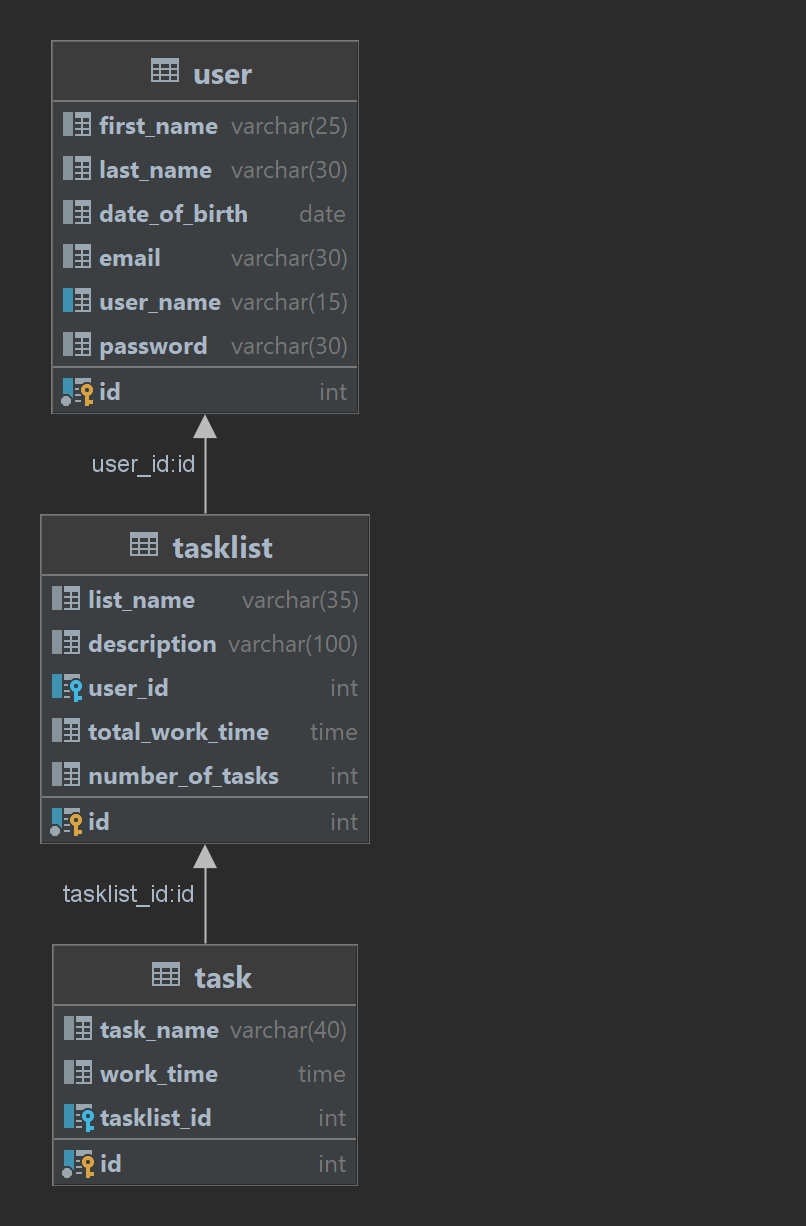
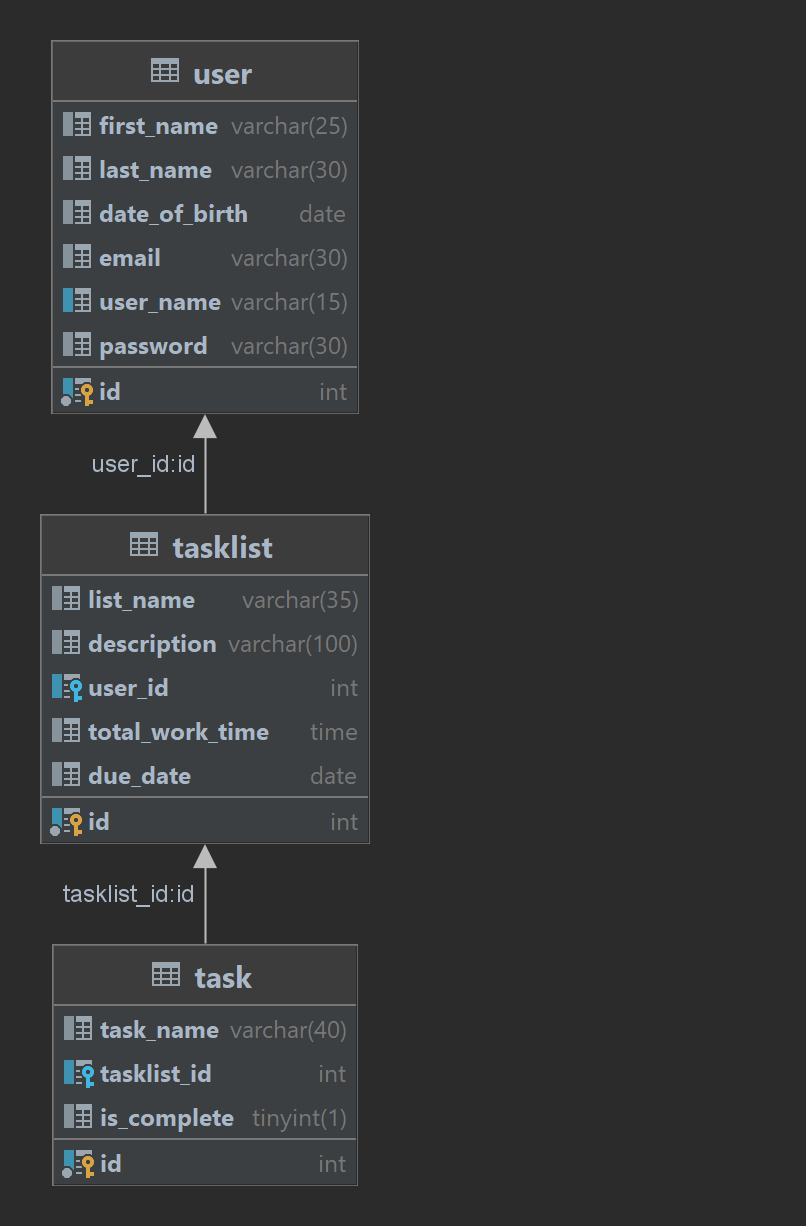
Remove workTime variable from Tasks and added isComplete variable. Added dueDate variable to TaskList class and updated local database to reflect change. Also, updated the ERD diagram, UserDataTest, TaskListDataTest, and TaskDataTest to reflect the changes made

diff --git a/src/main/java/edu/productivity/entity/Task.java b/src/main/java/edu/productivity/entity/Task.java
@@ -18,8 +18,8 @@ public class Task {
     private int id;
     @Column(name = "task_name")
     private String taskName;
-    @Column(name = "work_time")
-    private String workTime;
+    @Column(name = "is_complete")
+    private boolean isComplete;
 
     /**
      * Bidirectional @OneToMany
@@ -54,12 +54,12 @@ public class Task {
     /**
      * Task constructor
      * @param taskName task's name
-     * @param workTime total time worked on the task
+     * @param isComplete if task is completed or not
      * @param taskList
      */
-    public Task(String taskName, String workTime, TaskList taskList) {
+    public Task(String taskName, boolean isComplete, TaskList taskList) {
         this.taskName = taskName;
-        this.workTime = workTime;
+        this.isComplete = isComplete;
         this.taskList = taskList;
     }
 
@@ -79,23 +79,14 @@ public class Task {
         this.taskName = taskName;
     }
 
-    public String getWorkTime() {
-        return workTime;
+    public boolean isComplete() {
+        return isComplete;
     }
-    //TODO: Figure out how to convert Duration to String value
 
-    /* public void setUpTimer() {
-        boolean isTimed = false;
-        LocalTime startTime = LocalTime.now();
-        startTask();
-        endTask(startTime);
+    public void setComplete(boolean isComplete) {
+        this.isComplete = isComplete;
     }
-    public void endTask(LocalTime startTime) {
-        //TODO: figure out how to calculate the end time and store the duration into the workTime variable
-        LocalDate endTime = LocalDate.now();
-        Duration.between(startTime, endTime);
-    }
-    */
+
     public TaskList getTaskList(){return taskList;}
 
     public void setTaskList(TaskList taskList){
@@ -107,7 +98,7 @@ public class Task {
         return "Task{" +
                 "id=" + id +
                 ", taskName='" + taskName + '\'' +
-                ", workTime=" + workTime + '\'' +
+                ", isComplete=" + isComplete + '\'' +
                 '}';
     }
 

diff --git a/src/main/java/edu/productivity/entity/TaskList.java b/src/main/java/edu/productivity/entity/TaskList.java
@@ -6,6 +6,7 @@ import org.hibernate.annotations.GenericGenerator;
 
 import javax.persistence.*;
 import java.sql.Timestamp;
+import java.time.LocalDate;
 import java.time.LocalTime;
 import java.util.HashSet;
 import java.util.Objects;
@@ -21,10 +22,10 @@ public class TaskList {
     private int id;
     @Column(name = "list_name")
     private String listName;
-    @Column(name = "number_of_tasks")
-    private int numberOfTasks;
     @Column(name = "total_work_time")
     private LocalTime totalWorkTime;
+    @Column(name = "due_date")
+    private LocalDate dueDate;
     @Column(name = "description")
     private String description;
 
@@ -73,11 +74,11 @@ public class TaskList {
 
     public TaskList(){}
 
-    public TaskList(String listName, String description, LocalTime totalWorkTime, int numberOfTasks, User user) {
+    public TaskList(String listName, String description, LocalTime totalWorkTime, LocalDate dueDate, User user) {
         this.listName = listName;
         this.description = description;
         this.totalWorkTime = totalWorkTime;
-        this.numberOfTasks = numberOfTasks;
+        this.dueDate = dueDate;
         this.user = user;
     }
 
@@ -105,9 +106,9 @@ public class TaskList {
         this.description = description;
     }
 
-    public String calculateTotalTimeSpent(){
 
-        return null;
+    public String calculateTotalTimeSpent(){
+        return "string";
     }
 
     public Set<Task> getTasks() {
@@ -141,10 +142,11 @@ public class TaskList {
         return "TaskList{" +
                 "id=" + id +
                 ", listName='" + listName + '\'' +
-                ", numberOfTasks=" + numberOfTasks +
-                ", totalWorkTime='" + totalWorkTime + '\'' +
+                ", totalWorkTime=" + totalWorkTime +
+                ", dueDate=" + dueDate +
                 ", description='" + description + '\'' +
-                ", tasks=" + getTasks() +
+                ", tasks=" + tasks +
+                ", user=" + user +
                 '}';
     }
 

diff --git a/src/test/java/edu/productivity/persistence/TaskListDataTest.java b/src/test/java/edu/productivity/persistence/TaskListDataTest.java
@@ -8,6 +8,7 @@ import org.apache.logging.log4j.Logger;
 import org.junit.jupiter.api.BeforeEach;
 import org.junit.jupiter.api.Test;
 
+import java.time.LocalDate;
 import java.time.LocalTime;
 import java.util.List;
 
@@ -32,7 +33,7 @@ class TaskListDataTest {
         String taskListName = "Work on Lab 4 - JS";
         String description = "Lab 4 will demonstrate on how to use JavaScript in a HTML file.";
         String minutesWorked = "00:59:00";
-        TaskList newTaskList = new TaskList(taskListName, description, LocalTime.parse(minutesWorked), 1, user);
+        TaskList newTaskList = new TaskList(taskListName, description, LocalTime.parse(minutesWorked), LocalDate.parse("2023-01-29"), user);
         int id = genericDao.insert(newTaskList);
         assertTrue(genericDao.getById(id).equals(newTaskList));
     }

diff --git a/src/test/java/edu/productivity/persistence/UserDataTest.java b/src/test/java/edu/productivity/persistence/UserDataTest.java
@@ -57,7 +57,7 @@ class UserDataTest {
         String description = "Finish journal entry for Internship class by 10/10/2022";
         String minutesWorked = "00:40:00";
         User newUser = new User("Ebony", "Diaz", LocalDate.parse("2001-12-29"), "eDiaz@gmail.com", "eDiaz", "password5");
-        TaskList newTaskList = new TaskList(taskListName, description, LocalTime.parse(minutesWorked), 1, newUser);
+        TaskList newTaskList = new TaskList(taskListName, description, LocalTime.parse(minutesWorked), LocalDate.parse("2022-12-29"), newUser);
         newUser.addTaskList(newTaskList);
         int id = genericDao.insert(newUser);
         assertNotEquals(0, id);

diff --git a/src/main/java/edu/productivity/controller/UserTasks.java b/src/main/java/edu/productivity/controller/UserTasks.java
@@ -44,10 +44,10 @@ public class UserTasks extends HttpServlet {
 
         dao = new GenericDao(User.class);
         User userInfo = (User) dao.getById(inputId);
+        Set<TaskList> taskListInfo = userInfo.getTaskLists();
         if(userInfo != null) {
             req.setAttribute("user", userInfo);
-            if ((userInfo.getTaskLists()) != null) {
-                Set<TaskList> taskListInfo = userInfo.getTaskLists();
+            if (taskListInfo != null) {
                 req.setAttribute("taskList", taskListInfo);
             } else {
                 req.setAttribute("taskList", null);

diff --git a/src/test/java/edu/productivity/persistence/TaskDataTest.java b/src/test/java/edu/productivity/persistence/TaskDataTest.java
@@ -27,9 +27,9 @@ class TaskDataTest {
     void insertTaskSuccess() {
         TaskListData taskListDao = new TaskListData();
         TaskList taskList = taskListDao.getById(1);
-        String minutesWorked = "01:00:00";
+        boolean isComplete = false;
         String taskName = "Organize meeting with group";
-        Task newTask = new Task(taskName, minutesWorked, taskList);
+        Task newTask = new Task(taskName, isComplete, taskList);
         taskList.addTask(newTask);
         int id = genericDao.insert(newTask);
         assertNotEquals(0, id);
